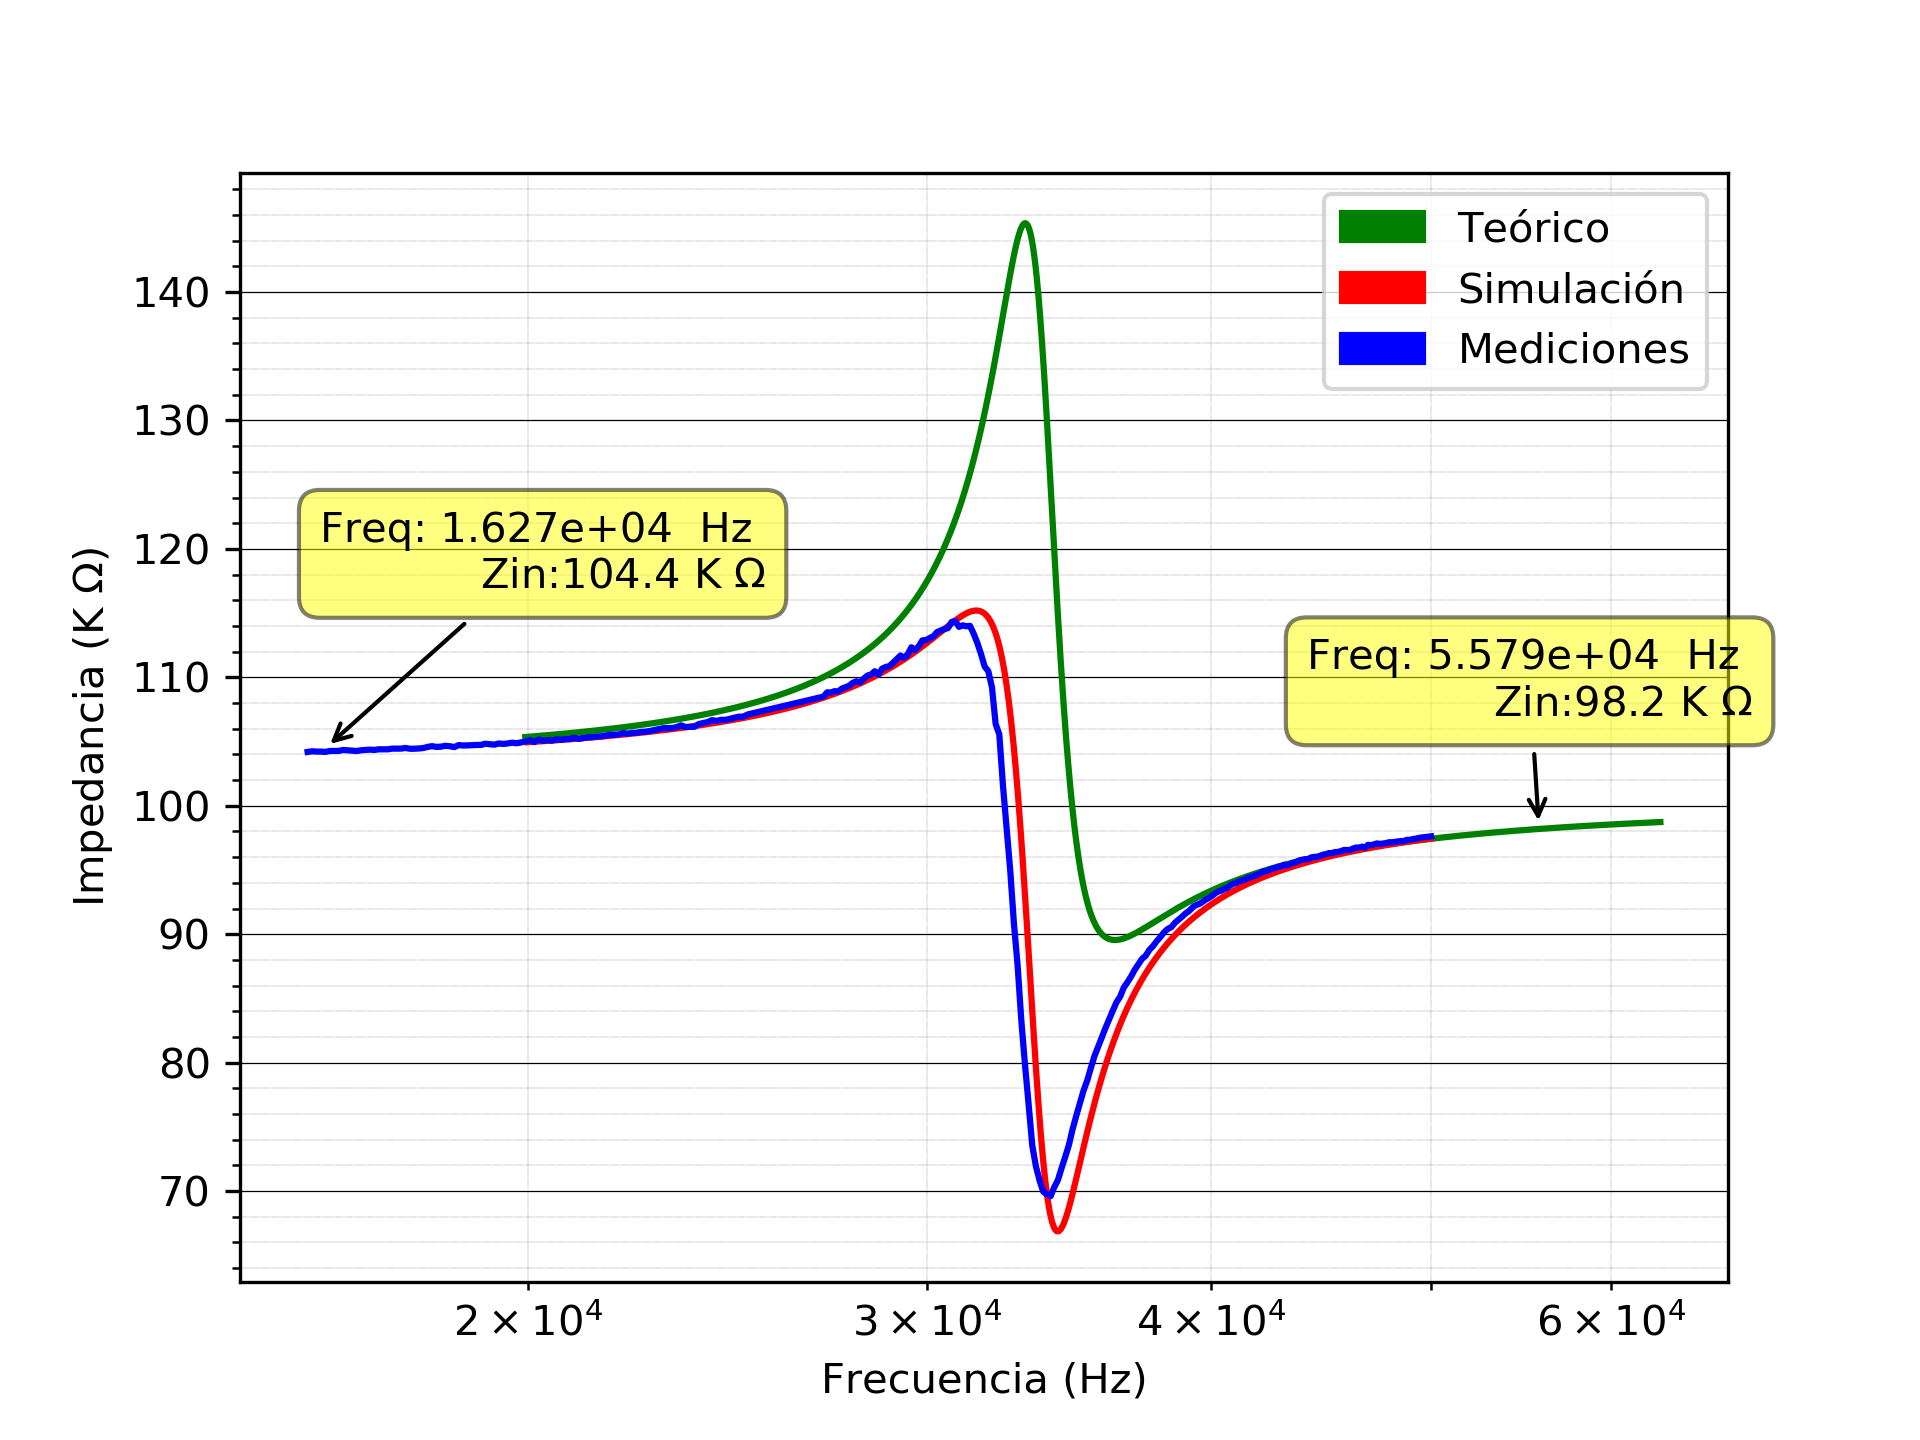
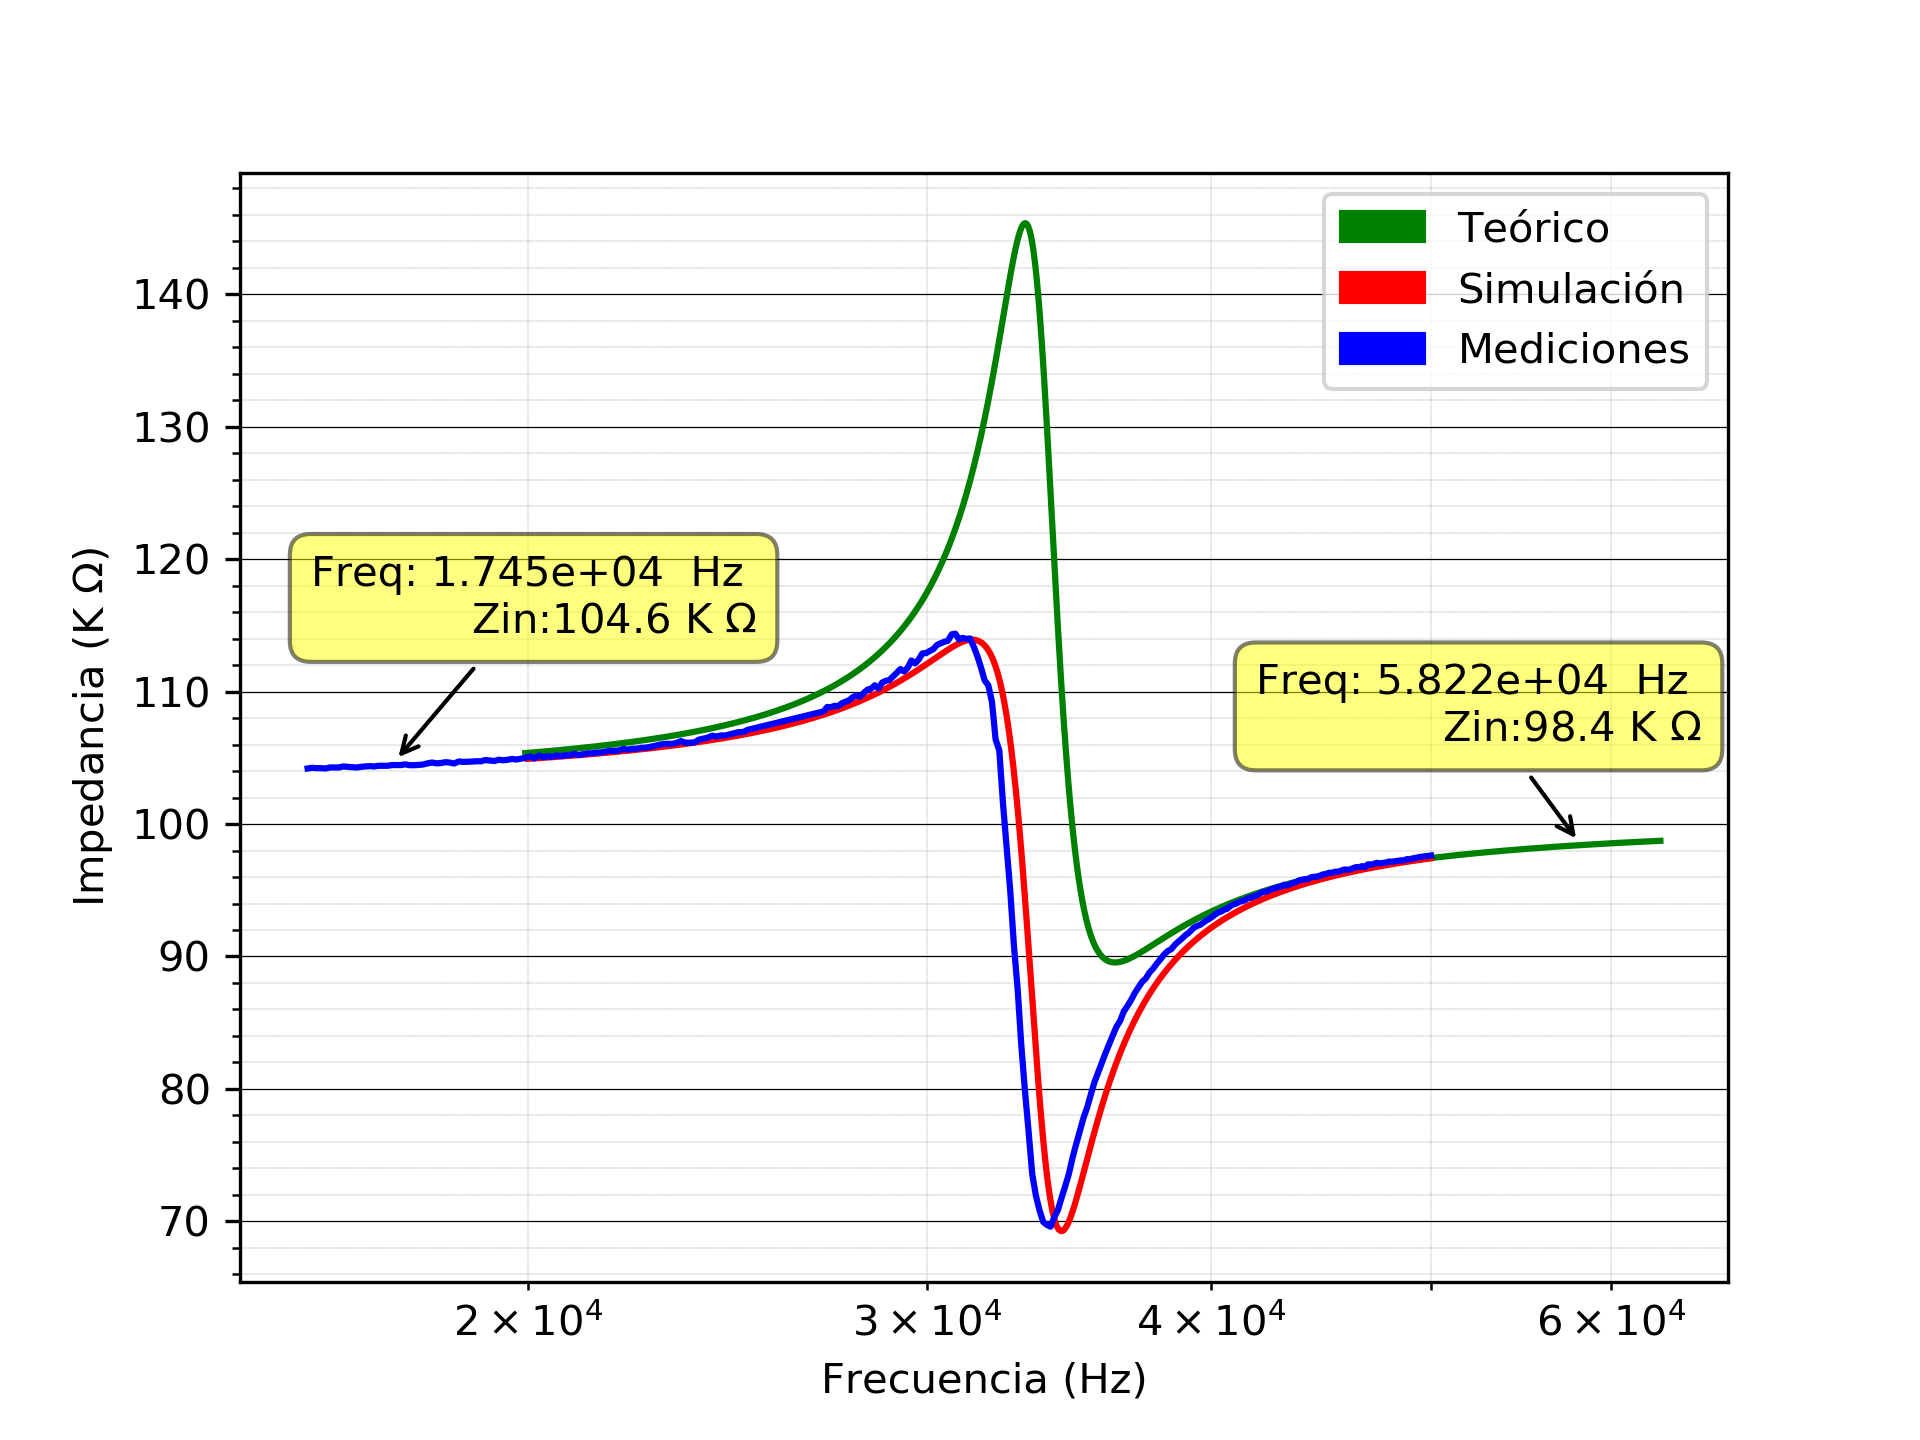
add

diff --git a/TP5/EJ2/main.py b/TP5/EJ2/main.py
@@ -117,13 +117,13 @@ plantilla_points = [
 #                 output_filename="H_pha.png",
 #                 my_tf=transfer.tf
 # )
-# plot_mediciones(mode="mag",
-#                 mediciones_filename="Zin.xlsx",
-#                 spice_filename="Zin.txt",
-#                 output_filename="Zin_mag.png",
-#                 my_tf=transfer.tfZin,
-#                 zin=True
-# )
+plot_mediciones(mode="mag",
+                mediciones_filename="Zin.xlsx",
+                spice_filename="Zin.txt",
+                output_filename="Zin_mag.png",
+                my_tf=transfer.tfZin,
+                zin=True
+)
 plot_mediciones(mode="pha",
                 mediciones_filename="Zin.xlsx",
                 spice_filename="Zin.txt",
